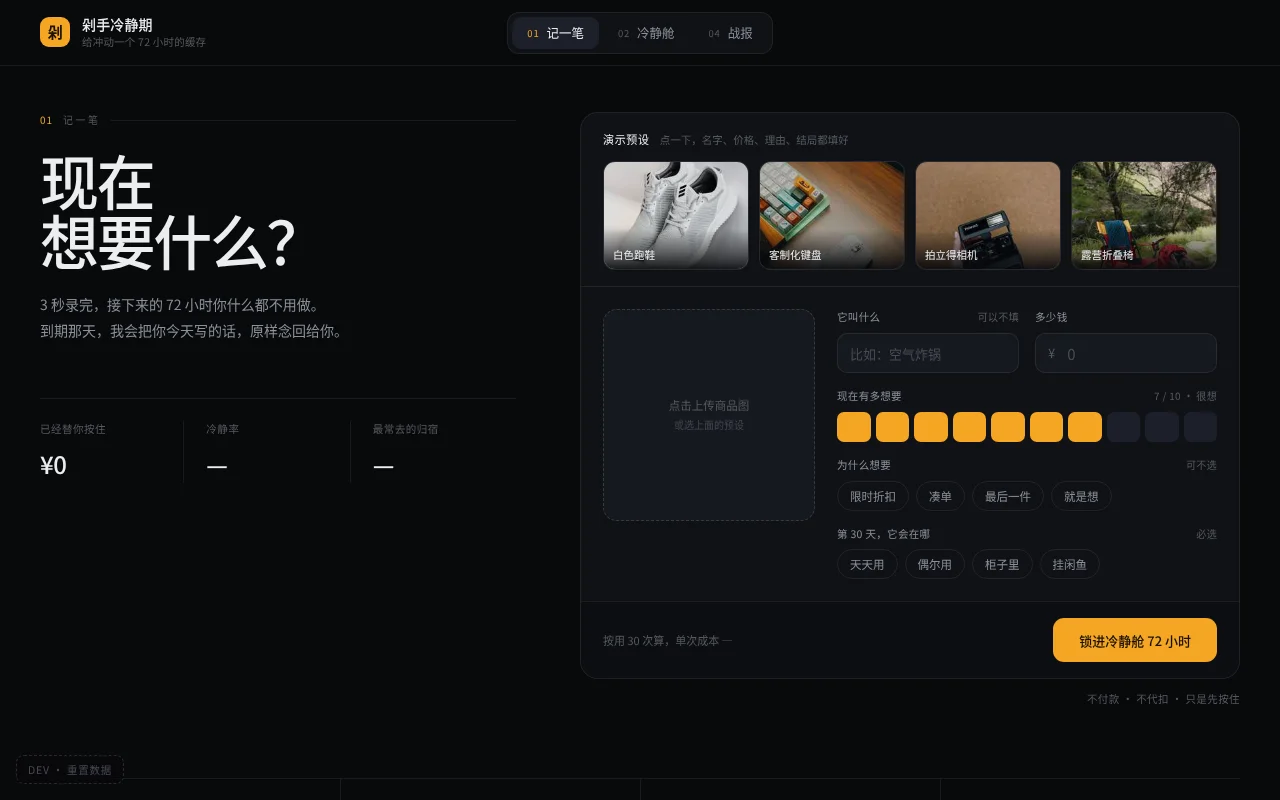
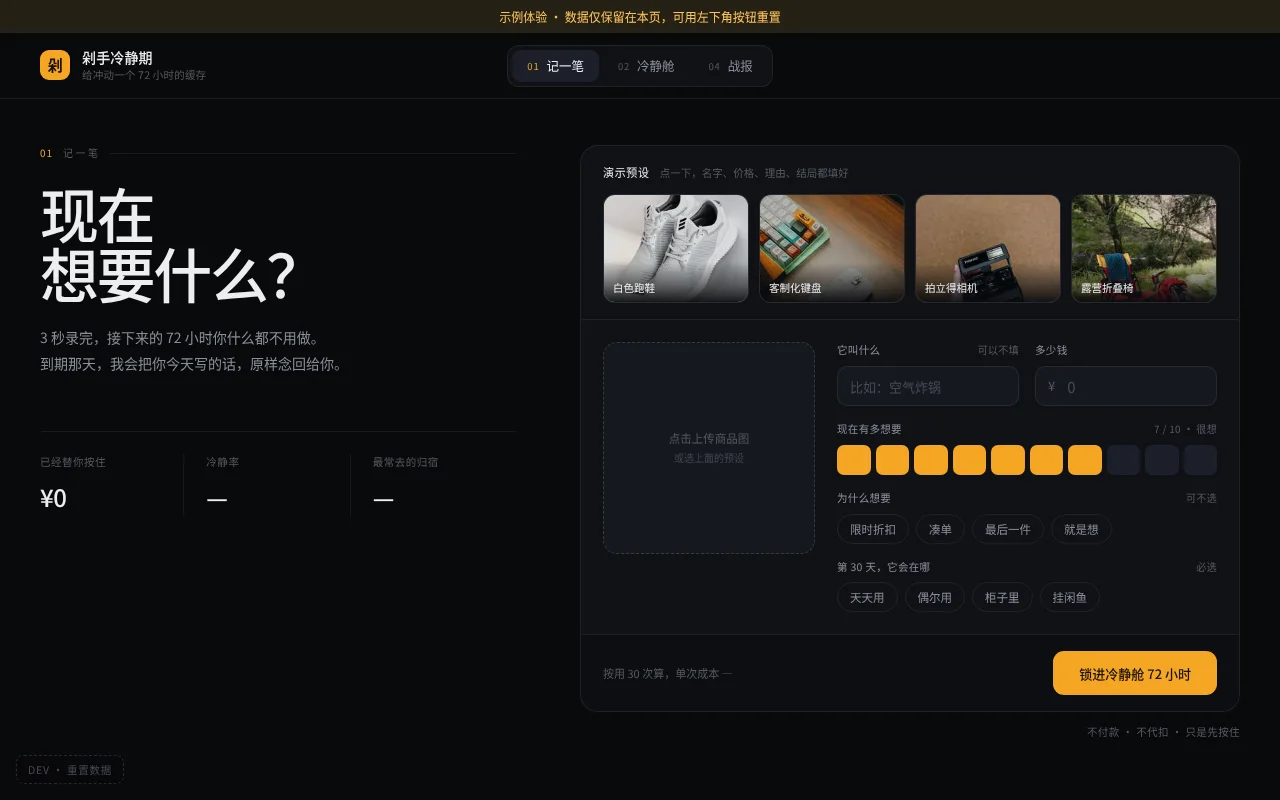
Improve preview reset and disclosure

diff --git a/wb1024-c139-beb8890b/showcase/preview.html b/wb1024-c139-beb8890b/showcase/preview.html
@@ -433,6 +433,7 @@ main{max-width:1440px;margin:0 auto;padding:0 40px 90px;}
 </style>
 </head>
 <body>
+<div style="position:relative;z-index:99;padding:8px;text-align:center;background:#262115;color:#ffc45a;font:12px sans-serif">示例体验 · 数据仅保留在本页，可用左下角按钮重置</div>
 
 <header class="topbar">
   <a class="brand" data-go="record">
@@ -566,7 +567,7 @@ main{max-width:1440px;margin:0 auto;padding:0 40px 90px;}
         <div class="repstats" id="repStats"></div>
         <div class="replitems" id="repItems"></div>
         <div class="repfoot">
-          <button class="primary" id="exportBtn" type="button">保存成图片</button>
+          <button class="primary" id="exportBtn" type="button" disabled title="安装后可保存图片">安装后保存图片</button>
           <span class="hint">图片自带话题标签，可直接发社媒</span>
         </div>
       </div>
@@ -1658,7 +1659,7 @@ main{max-width:1440px;margin:0 auto;padding:0 40px 90px;}
         localStorage.removeItem(KEY_ITEMS);
         localStorage.removeItem(KEY_FF);
       } catch (e) {}
-      location.reload();
+      state.items = []; state.ff = 0; state.currentId = null; state.form = { img: "", name: "", price: "", temp: 7, excuse: "", fate: "" }; $("fName").value = ""; $("fPrice").value = ""; $("phImg").removeAttribute("src"); $("photo").classList.remove("has"); syncTemp(); syncUnit(); renderStats(); go("record"); armed = false; b.classList.remove("arm"); b.textContent = "DEV · 重置数据"; toast("示例已重置");
     });
   }
 
